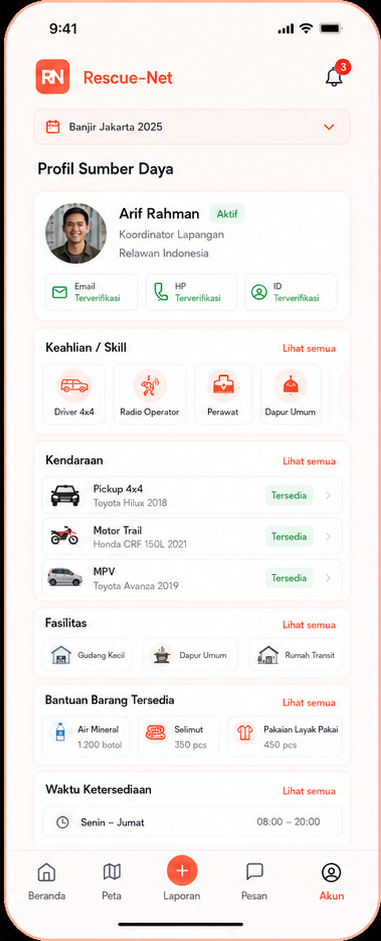
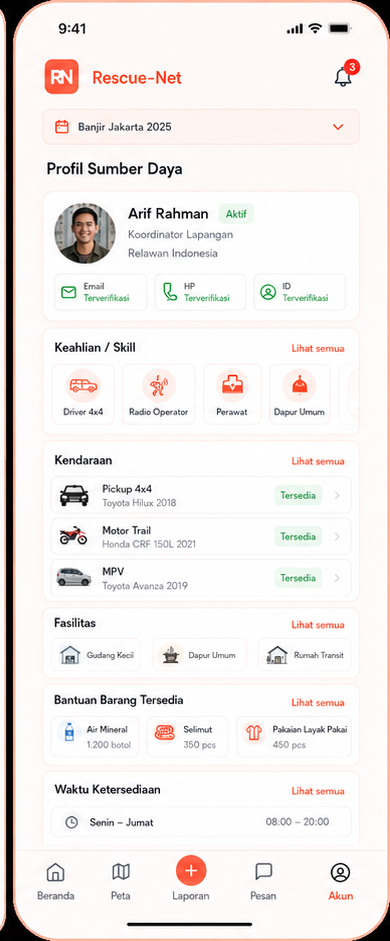
Mock up HP: tepi kiri potongan dikoreksi (Welcome tanpa sisa desktop, bingkai HP tidak terpotong)

diff --git a/assets/js/mockup.js b/assets/js/mockup.js
@@ -26,7 +26,7 @@ const MOCKUP_ITEMS = [
   // only the phone portion. "mobile" is already an HP-only compilation.
   hpImage: key === "mobile"
     ? `../assets/img/mockup/${file}`
-    : `../assets/img/mockup/hp/${file}?v=crop-20261019`,   // re-cropped per image (phone frame only)
+    : `../assets/img/mockup/hp/${file}?v=crop-20261019b`,   // re-cropped per image (phone frame only)
   file
 }));
 

diff --git a/pages/mockup.html b/pages/mockup.html
@@ -367,7 +367,7 @@
   </main>
 </div>
 
-<script src="../assets/js/mockup.js?v=crop-20261019"></script>
+<script src="../assets/js/mockup.js?v=crop-20261019b"></script>
 <script src="../assets/js/rn-public-header.js?v=installapp-20260926"></script>
 <script src="../assets/js/rn-layout-mode.js?v=noscrollbar-20260905"></script>
 <script src="../assets/js/rn-pwa.js?v=pwa-20260926b"></script>
